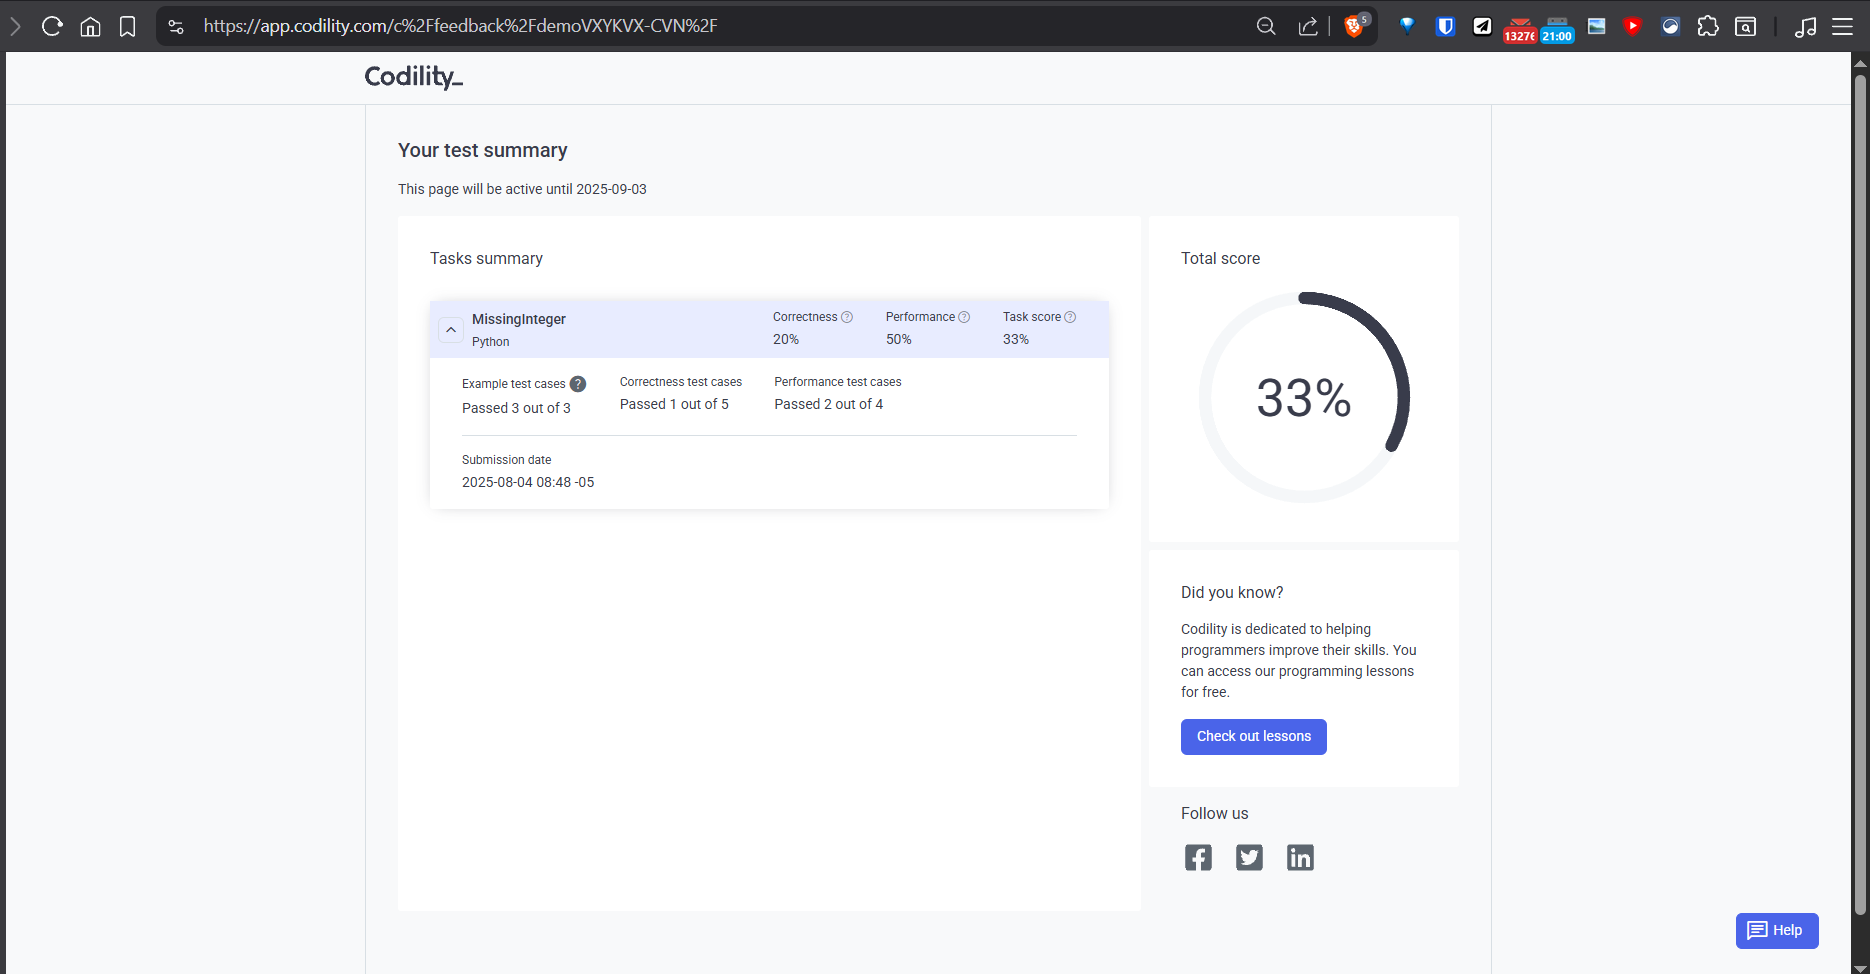
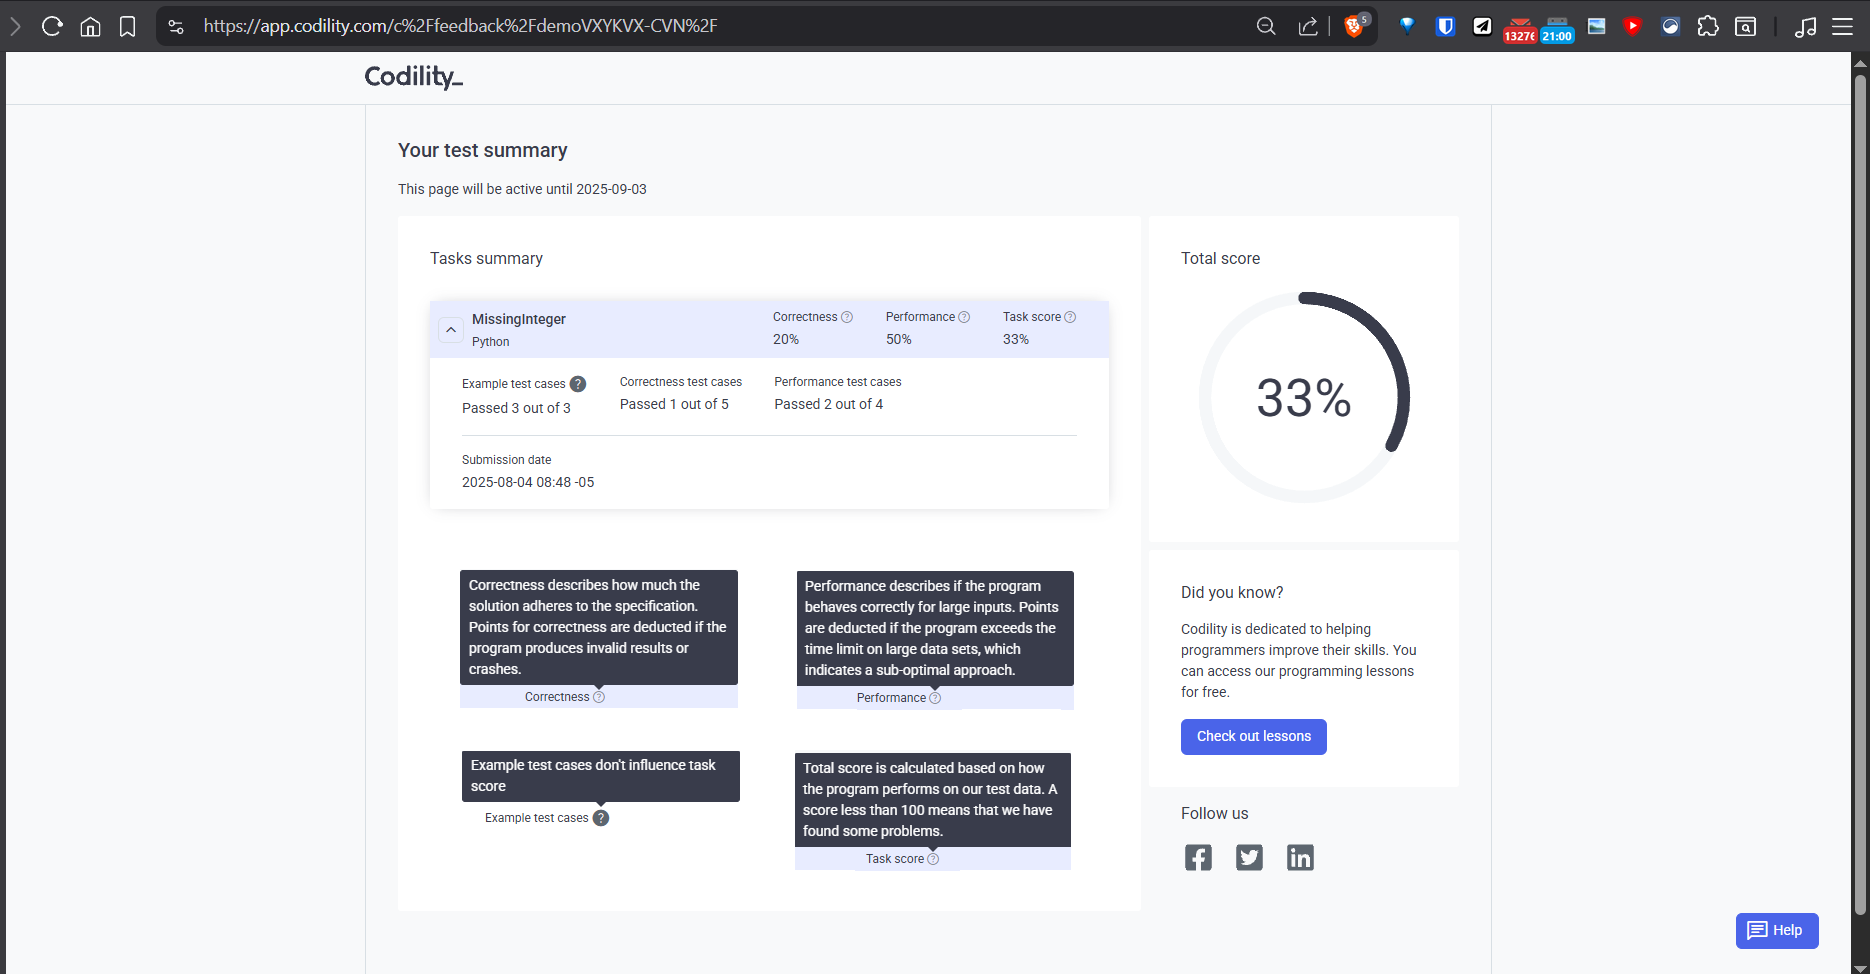
Update 'README.md'

Changed region(s): [[0.2481, 0.5852, 0.5893, 0.7392], [0.2481, 0.77, 0.5893, 0.8932]]

diff --git a/README.md b/README.md
@@ -4,8 +4,14 @@
 - Badges with logos: 'https://shields.io/docs/logos', 'https://simpleicons.org/', 'https://github.com/simple-icons/simple-icons/blob/master/slugs.md'.
 - HTML <a> tag not redirecting: 'https://stackoverflow.com/questions/8260546/make-a-html-link-that-does-nothing-literally-nothing/8260561#8260561', 'https://www.geeksforgeeks.org/html/how-to-create-html-link-that-does-not-follow-the-link/'.
 -->
+<!-- Badge: WIP
 <p align="left">
   <a href="#" onclick="return false;"><img src="https://img.shields.io/badge/STATUS-WIP-yellow?style=flat"/></a>
+</p>
+-->
+<!-- Badge: Done -->
+<p align="left">
+  <a href="#" onclick="return false;"><img src="https://img.shields.io/badge/STATUS-DONE-green?style=flat"/></a>
 </p>
 
 <!-- README structure followed:
@@ -18,18 +24,49 @@
 
 Codility ('<https://www.codility.com/>') is a candidate technical programming assessment platform used by companies for evaluating candidates, such like HackerRank and Leetcode.
 
-For candidates, they offer a **single unique demo** to try the platform and their assessment methodology, availabe at: '<https://app.codility.com/demo/take-sample-test/>'.
+For candidates, they offer a **free-of-charge, PUBLICLY available, and single unique demo** to try the platform and their assessment methodology (**1 task in 30m, at least for this demo**), availabe at: '<https://app.codility.com/demo/take-sample-test/>'.
 
-This repo includes the demo presentation, and a possible solution on my end, with a 'score' provided by the platform.
+This repo. includes the demo presentation, and a possible solution on my end, with a 'score' provided by the platform.
 
 # Instructions And Presentation.
 
-**TASK INSTRUCTIONS AND WORKSPACE (PYTHON CODE).**
+**TASK DESCRIPTION AND WORKSPACE (PYTHON CODE).**
 
-- Instructions.
-- Filetree, or files structure.
-- Workspace, *according to file selection in filetree*.
-    - By default, it's the main code file; e.g. Python file, called `solution.py`.
+<ul>
+    <li>A timer ⌚ <b>It can vary from 30m to 2h, depending on the task(s)</b>.</li>
+    <li>
+    <details>
+        <summary>Description / Instructions.</summary>
+        <p></p>
+
+> This is a demo task.
+>
+> Write a function `def solution(A)`, such that given an array A of N integers, returns the smallest positive integer (greater than 0) that does not occur in A. For example, given:
+>
+> - `A = [1, 3, 6, 4, 1, 2]`: the function should return 5.
+> - `A = [1, 2, 3]`: the function should return 4.
+> - `A = [-1, -3]`: the function should return 1.
+>
+> Write an efficient algorithm for the following assumptions:
+>
+> - N is an integer within the range [1, ..., 100K].
+> - Each element of array A is an integer within the range [-1M, ..., 1M].
+
+</details>
+    </li>
+    <li>
+    <details>
+        <summary>Filetree, or files structure.</summary>
+        <p></p>
+        <img src='rsrcs/imgs/img-solution-files_structure.png'>
+</details>
+    </li>
+    <li>Workspace, <i>according to file selection in the filetree</i>.</li>
+    <ul>
+        <li>By default, it's the main code file; e.g. Python file, called <code>solution.py</code>.</li>
+    </ul>
+    <li>A 'Test Output' window, were results are displayed after clicking the button <code>▶ Run code</code></li>
+</ul>
 
 > [!IMPORTANT]
 > In 'Language:', select the appropiate language to code!.
@@ -38,10 +75,101 @@ This repo includes the demo presentation, and a possible solution on my end, wit
 
 **WORSKPACE (INPUT TXT FILE FOR TESTING PURPOSES).**
 
-- When selecting the `.txt` file of *own custom inputs*, for testing; e.g. file called `test-input.txt`.
+- When selecting the `.txt` file for *own custom inputs*, for testing; e.g. file called `test-input.txt`.
 
 <img src='rsrcs/imgs/img-codility_platform_demo-01b-instructions_p2.png' width=900>
 
 # Notes on Exercise and Code Execution.
 
-- A.
+> [!IMPORTANT]
+> Keep these notes on mind to **avoid wasting time** when doing the real assessment! No documentation of Codility (that I had reviewed) talks about some of these points, which is '*unfortunate*', to say the least, given that it's a **time-based assessment**.
+
+## VALIDATE FORMAT FOR TESTING IN TEST-INPUT RELATED FILES.
+
+**As soon as you start**, go to any test-input related file; e.g. `test-input.txt`, click on the `▶ Run code` button and check the error messages in the `Test Output` window:
+
+<img src='rsrcs/imgs/img-codility_platform_demo-02-test_input_custom.png' width=900>
+
+- You can check what **example tests were pre-configured** in the assessment, and their input format; e.g. `Example test: [1, 3, 6, 4, 1, 2]`.
+- If you decide to use the file for extended testing, put your 'own-custom' values, **following the pre-defined format**; `9, 1000000, 10`, `[9, -100001, 10]`.
+- Regular errors for pre-configured tests are marked in <span style='color:red'>red</span>, while for own-custom inputs are marked in <span style='color:black;background-color:grey'>black</span>.
+
+## DO NOT PRODUCE OUTPUT IN YOUR CODE WITH PRINTS ❌ ONLY RETURN THE VALUE! ✅.
+
+<details>
+    <summary>Avoid falling into the tempation of putting prints in your code, like for debugging or log messages! <b>The platform interprets them as the result they are expecting.</b></summary>
+    <p></p>
+    <img src='rsrcs/imgs/img-codility_platform_demo-03b-execution_error_prints.png' width=900>
+</details>
+
+## DO NOT RETURN `None` IN YOUR FUNCTIONS! ❌ RETURN A 'DEFAULT' VALUE ACCORDING TO TASK DESCRIPTION.
+
+Avoid:
+
+<details>
+    <summary>Falling into the temptation of <b>not being explicit</b> with what the function returns, and using prints!.</summary>
+    <p></p>
+    <img src='rsrcs/imgs/img-codility_platform_demo-03c-execution_error_none.png' width=900>
+</details>
+<p></p>
+<details>
+    <summary>Also avoid setting a variable as <code>None</code> that is related to the <code>return</code> command of the function you're creating.</summary>
+    <p></p>
+    <img src='rsrcs/imgs/img-codility_platform_demo-03d-execution_error_none2.png' width=900>
+</details>
+<p></p>
+
+# Code Development.
+
+Local development of a interpretation of a possible solution ended up in 2 files:
+
+- `solution.py`, at **'root'** directory.
+- `test-input.txt`, also at **'root'** directory.
+
+> [!NOTE]
+> Python file (`solution.py`) can not run properly, since it's the code explicit for the Demo test, but if you want to run a version properly, please refer to next section **'RUN DEVELOPED CODE.'**.
+
+**DEV. ENVIRONMENT.**
+
+Developed with **VS Code**, using **dev. containers**. That's why there is a `.devcontainer` folder at **'root'** level.
+
+**ADDITIONAL FILES AND FOLDERS IN REPO.**
+
+More variations and detailed step-by-step code are in the subfolders, such as a Jupyter Notebook (`solution.ipynb`) used mainly for developing code, and a python file of an alternate, more robust / better organized version (`solution-vLocal.py`) that can run properly, unlike `solution.py` at **'root'** level.
+
+**RUN DEVELOPED CODE.**
+
+In order to run it, it's only needed **'Python 3'** installed without any additional library. You have 2 easy choices:
+
+- Run Jupyter Notebook `solution.ipynb`: make sure `test-input-vDev.txt` is in the **same folder**, and open the Jupyter Notebook.
+- Execute `solution-vLocal.py`: make sure `test-input-vDev.txt` is in the **same folder**, and run command `python3 'solution-vLocal.py'` in the **same folder**.
+
+    <img src='rsrcs/imgs/img-vscode-python_code_execution.png' width=900>
+
+> [!NOTE]
+> In both cases, make sure files are in the **same** folder.
+
+# Results of Demo Test / Assessment.
+
+<details>
+    <summary>Once you finish your code and are ready to send it (validating the message 'Test Output ✅' in its window.), or more likely once you run out of time... 😅😥, submit your code in the top-right corner button <code>✅ Submit Task</code>.</summary>
+    <p></p>
+    <img src='rsrcs/imgs/img-codility_platform_demo-04-execution_solution.png' width=900>
+</details>
+<p></p>
+
+> [!IMPORTANT]
+> **DO NOT WORRY IF YOU RUN OUT OF TIME**. The platform will save and submit whatever code you have in your workspace.
+
+After submitting your results, make sure to go through all next screen steps, if you want to review your results. In my case:
+
+<img src='rsrcs/imgs/img-codility_platform_demo-05-results.png' width=900>
+
+**Why did I get 33%? Who knows... 🤷♂** Even if I got right all 3 example test cases and almost none of some other unknow 'secret' test cases they had... My opinions about the experience and the platform itself are well represented in these 2 articles, just in case you want to read more:
+
+- '<https://dev.to/bytebodger/codility-sadness-4of0>'.
+- '<https://batcat.medium.com/tech-screening-reinvented-embracing-personal-connections-f83c4079103a>'.
+
+If you got to this point, thank you so much for reading and hopefully this content can be helpful or informative in any way 🙇♂.
+
+Have a great day.
